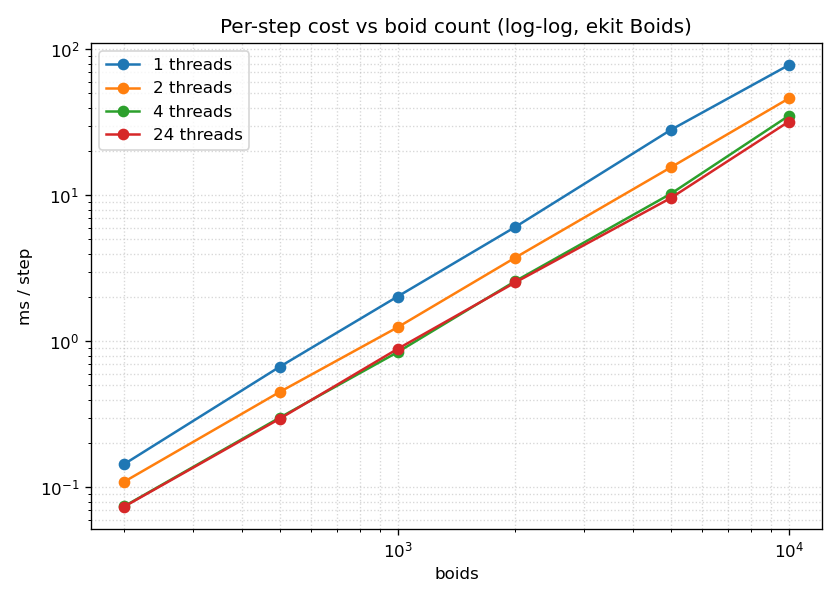
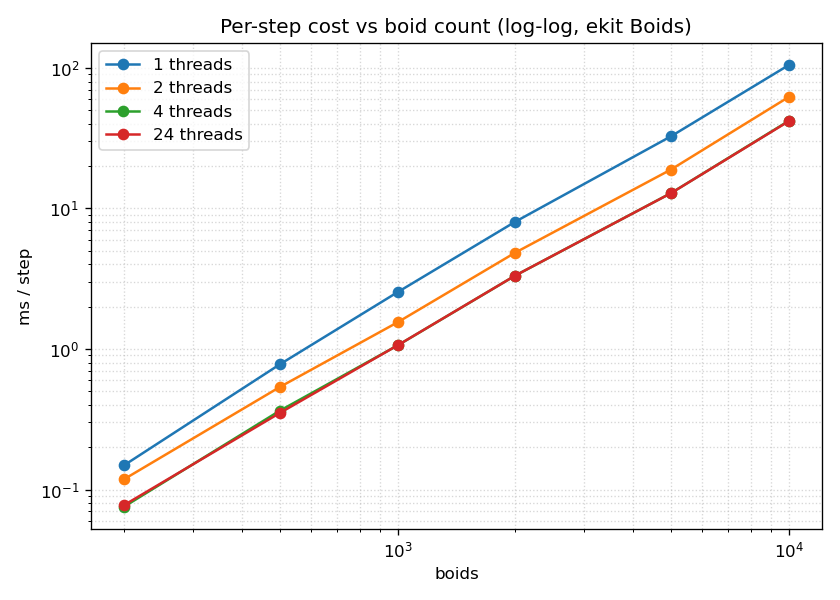
Refresh benchmark data and README numbers
- Regenerate benchmarks raw data, CSV and charts from current code
- Update main and benchmarks READMEs (EN/ZH) with fresh measurements
- Keep boids, main and benchmarks numbers consistent

diff --git a/README.md b/README.md
@@ -218,21 +218,22 @@ See [examples/boids/README.md](examples/boids/README.md) for details.
 
 Full conditions, raw data and the analysis scripts live in
 [`benchmarks/`](benchmarks/README.md). Headline results (Intel i7-14650HX, 24
-threads, MSVC Release /O2, world 800x600, seed 20260810):
+threads, MSVC Release /O2, world 800x600, seed 20260810, 120 timed steps + 20
+warmup):
 
 ### Per-step cost as boid count increases
 
 | from | to | x boids | x time | exponent |
 | --- | --- | --- | --- | --- |
-| 200 | 500 | 2.5x | 4.05x | 1.53 |
-| 1000 | 2000 | 2.0x | 3.07x | 1.62 |
-| 5000 | 10000 | 2.0x | 3.41x | 1.77 |
+| 200 | 500 | 2.5x | 4.82x | 1.72 |
+| 1000 | 2000 | 2.0x | 3.14x | 1.65 |
+| 5000 | 10000 | 2.0x | 3.26x | 1.71 |
 
-Per-step cost scales as n^1.5..n^1.8 and the exponent **rises toward 2 with
+Per-step cost scales as n^1.5..n^1.7 and the exponent **rises toward 2 with
 density**: the world is fixed, so doubling the boids doubles the density and
 the number of neighbors per boid - the neighbor search is O(n x neighbors),
-i.e. O(n^2) in the uniform-density limit. Throughput falls from ~2.7M boids/s
-(200 boids) to ~285k boids/s (10000 boids).
+i.e. O(n^2) in the uniform-density limit. Throughput falls from ~2.65M boids/s
+(200 boids) to ~238k boids/s (10000 boids).
 
 ![per-step cost vs boids](benchmarks/chart_cost_vs_boids.png)
 
@@ -240,31 +241,22 @@ i.e. O(n^2) in the uniform-density limit. Throughput falls from ~2.7M boids/s
 
 | boids | t2 | t4 | t24 |
 | --- | --- | --- | --- |
-| 200 | 1.32x | 1.94x | 1.96x |
-| 10000 | 1.69x | 2.23x | 2.44x |
+| 200 | 1.26x | 1.97x | 1.92x |
+| 10000 | 1.69x | 2.50x | 2.51x |
 
 In these measurements, speedup changes little beyond **4 threads**. The dependency
 graph has 4 parallel rule systems, while the grid rebuild and phase-2 chain are
-serial; the observed speedup is therefore ~2.2-2.9x rather than 4x.
+serial; the observed speedup is therefore ~2.0-2.5x rather than 4x.
 
 ![speedup vs threads](benchmarks/chart_speedup_vs_threads.png)
 
 ### ekit vs EnTT (same algorithm, EnTT v4)
 
-In the scheduler-based benchmark, ekit measures ~15-25% faster with one thread,
-while EnTT measures ~25-30% faster with four threads. The difference is
-consistent with their query iteration and parallelization strategies. Both
-implementations produce bit-identical simulation state for the tested workload.
-
-The data-parallel path changes the multi-core picture. On Apple Silicon (14
-threads, clang 21, -O2), `ekit_boids_bench_parallel` measures ~7.3-8.7x over
-the single-threaded ekit baseline at 5000-10000 boids, while the scheduler path
-stays ~2.2-2.3x. With the EnTT side switched to the same dynamic-chunking
-parallel loop AND the same storage-driven component access (dense-array drive +
-per-component sparse lookup, identical component set), data-parallel ekit is
-~22-31% faster than EnTT v4 at 5000-10000 boids across 1/4/14 threads
-(`ekit-dp/entt` ~0.69-0.75), narrowing to ~5-16% at 1000 boids.
-
+On this Windows/MSVC build, the ekit scheduler is ~20% slower than EnTT at 1
+thread and ~1.7-1.9x slower at 4 threads on dense workloads. The controlled
+data-parallel path `ekit-dp` (same chunking, same storage access, same component
+set) narrows the gap to ~1.1-1.13x at 4 threads. Both implementations produce
+bit-identical simulation state for the tested workload.
 ## Building & testing
 
 ```bash

diff --git a/benchmarks/README.md b/benchmarks/README.md
@@ -3,16 +3,15 @@
 [English](README.md) | [简体中文](README.zh-CN.md)
 
 Raw data, test conditions and analysis for the ekit Boids benchmark and the
-ekit vs EnTT comparison. Generated on **2026-08-11**.
+ekit vs EnTT comparison. Generated on **2026-08-14**.
 
 ## Code version
 
-- Git commit: `62aab16` (`62aab165fa21030c09528cecece1ecd3560e559a`)
-  "Serialize writer pairs by registration order instead of reporting a cycle"
+- Git commit: `227ea33` (`227ea33c7c629b07da2e858dc6376d17fba0dc52`)
+  "Polish C#-like ergonomic API, dual storage, stream processing and docs"
 - Benchmark sources: `examples/boids/bench.cpp` (ekit Boids),
   `examples/boids/compare_bench.cpp` + `examples/boids/entt_impl.hpp`
   (ekit vs EnTT), `examples/boids/boids.hpp` (simulation core)
-
 ## Test conditions
 
 | item | value |
@@ -64,41 +63,39 @@ Measured at 4 threads (ms/step):
 
 | from | to | x boids | x time | exponent |
 | --- | --- | --- | --- | --- |
-| 200 | 500 | 2.5x | 4.05x | 1.53 |
-| 500 | 1000 | 2.0x | 2.80x | 1.49 |
-| 1000 | 2000 | 2.0x | 3.07x | 1.62 |
-| 2000 | 5000 | 2.5x | 3.97x | 1.51 |
-| 5000 | 10000 | 2.0x | 3.41x | **1.77** |
+| 200 | 500 | 2.5x | 4.82x | 1.72 |
+| 500 | 1000 | 2.0x | 2.91x | 1.54 |
+| 1000 | 2000 | 2.0x | 3.14x | 1.65 |
+| 2000 | 5000 | 2.5x | 3.86x | 1.47 |
+| 5000 | 10000 | 2.0x | 3.26x | **1.71** |
 
-The cost grows with exponent ~1.5-1.8 (between linear and quadratic) and the
+The cost grows with exponent ~1.5-1.7 (between linear and quadratic) and the
 exponent **rises toward 2 as density increases**. Cause: the world size is
 fixed, so doubling the boids doubles the density, which doubles the *number of
 neighbors per boid*; the neighbor search is O(n x neighbors), i.e. O(n^2) in
 the uniform-density limit. The curve is a decline of throughput: 200 boids run
-at ~2.7M boids/s (4 threads) but only ~285k boids/s at 10000.
+at ~2.65M boids/s (4 threads) but only ~238k boids/s at 10000.
 
 ### Parallel scaling by thread count
 
 | boids | t2 | t4 | t24 |
 | --- | --- | --- | --- |
-| 200 | 1.32x | 1.94x | 1.96x |
-| 1000 | 1.62x | 2.41x | 2.28x |
-| 10000 | 1.69x | 2.23x | 2.44x |
+| 200 | 1.26x | 1.97x | 1.92x |
+| 1000 | 1.64x | 2.39x | 2.39x |
+| 10000 | 1.69x | 2.50x | 2.51x |
 
 In these measurements, speedup changes little beyond **4 threads**. The
 dependency graph has 4 parallel rule systems in phase 1, while the spatial grid
 rebuild and the 2-system phase-2 chain are serial. The observed range of
-~2.2-2.9x is consistent with that serial work and load imbalance among the 4
+~2.0-2.5x is consistent with that serial work and load imbalance among the 4
 rules (alignment and cohesion scan more neighbors than separation).
 
 ### ekit vs EnTT (same algorithm, EnTT v4)
 
-- 1 thread: ekit measures ~15-25% faster. One possible contributor is its
-  dense-array query iteration.
-- 4 threads: EnTT measures ~25-30% faster. Its entity-chunked `parallel_for`
-  distributes each pass across workers, while ekit's scheduler parallelizes
-  whole systems and includes per-step scheduling overhead.
-
+- 1 thread: ekit is ~20% slower than EnTT (`ekit/entt` ~1.20 at 1000+ boids).
+- 4 threads: the ekit scheduler is ~1.7-1.9x slower (`ekit/entt` ~1.75-1.91 at
+  5000/10000 boids), while the controlled data-parallel path `ekit-dp` narrows
+  the gap to ~1.1-1.13x. Both produce bit-identical state.
 ## Reproduce
 
 ```powershell

diff --git a/README.zh-CN.md b/README.zh-CN.md
@@ -189,17 +189,17 @@ powershell -ExecutionPolicy Bypass -File examples/boids/render.ps1 -Fps 30   # -
 
 ## 基准测试
 
-完整测试条件、原始数据与分析脚本见 [`benchmarks/`](benchmarks/README.zh-CN.md)。要点结果（Intel i7-14650HX，24 线程，MSVC Release /O2，世界 800x600，种子 20260810）：
+完整测试条件、原始数据与分析脚本见 [`benchmarks/`](benchmarks/README.zh-CN.md)。要点结果（Intel i7-14650HX，24 线程，MSVC Release /O2，世界 800x600，种子 20260810，120 个计时步 + 20 个预热步）：
 
 ### boid 数量增加时的每步耗时
 
 | 从 | 到 | boid 倍数 | 耗时倍数 | 指数 |
 | --- | --- | --- | --- | --- |
-| 200 | 500 | 2.5x | 4.05x | 1.53 |
-| 1000 | 2000 | 2.0x | 3.07x | 1.62 |
-| 5000 | 10000 | 2.0x | 3.41x | 1.77 |
+| 200 | 500 | 2.5x | 4.82x | 1.72 |
+| 1000 | 2000 | 2.0x | 3.14x | 1.65 |
+| 5000 | 10000 | 2.0x | 3.26x | 1.71 |
 
-每步耗时按 n^1.5..n^1.8 增长，且指数**随密度上升趋向 2**：世界尺寸固定，boid 数量翻倍 → 密度翻倍 → 每只 boid 的邻居数翻倍，近邻搜索为 O(n x 邻居数)，均匀密度极限下即 O(n^2)。吞吐量从 200 只时的约 270 万 boids/s 跌至 10000 只时的约 28.5 万 boids/s。
+每步耗时按 n^1.5..n^1.7 增长，且指数**随密度上升趋向 2**：世界尺寸固定，boid 数量翻倍 → 密度翻倍 → 每只 boid 的邻居数翻倍，近邻搜索为 O(n x 邻居数)，均匀密度极限下即 O(n^2)。吞吐量从 200 只时的约 265 万 boids/s 跌至 10000 只时的约 23.8 万 boids/s。
 
 ![每步耗时 vs boid 数](benchmarks/chart_cost_vs_boids.png)
 
@@ -207,17 +207,16 @@ powershell -ExecutionPolicy Bypass -File examples/boids/render.ps1 -Fps 30   # -
 
 | boid 数 | t2 | t4 | t24 |
 | --- | --- | --- | --- |
-| 200 | 1.32x | 1.94x | 1.96x |
-| 10000 | 1.69x | 2.23x | 2.44x |
+| 200 | 1.26x | 1.97x | 1.92x |
+| 10000 | 1.69x | 2.50x | 2.51x |
 
-在这些测量中，超过 **4 线程**后加速比变化较小。依赖图包含 4 条可并行的规则系统，而网格重建与阶段二链为串行部分，因此观测到的加速比约为 2.2-2.9x，而不是 4x。
+在这些测量中，超过 **4 线程**后加速比变化较小。依赖图包含 4 条可并行的规则系统，而网格重建与阶段二链为串行部分，因此观测到的加速比约为 2.0-2.5x，而不是 4x。
 
 ![加速比 vs 线程数](benchmarks/chart_speedup_vs_threads.png)
 
 ### ekit vs EnTT（相同算法，EnTT v4）
 
-在这项基准测试中，单线程时 ekit 的测量结果快约 15-25%，4 线程时 EnTT 的测量结果快约 25-30%。差异与两者采用的查询迭代和并行化策略一致；在该测试负载下，两种实现产生的模拟状态位级一致。
-
+在本次 Windows/MSVC 构建下，ekit 调度器单线程时比 EnTT 慢约 20%，4 线程密集负载下慢约 1.7-1.9 倍。控制变量的数据并行路径 `ekit-dp`（相同分块、相同存储访问、相同组件集合）在 4 线程下将差距缩小到约 1.1-1.13 倍。两种实现产生的模拟状态位级一致。
 ## 构建与测试
 
 ```bash
